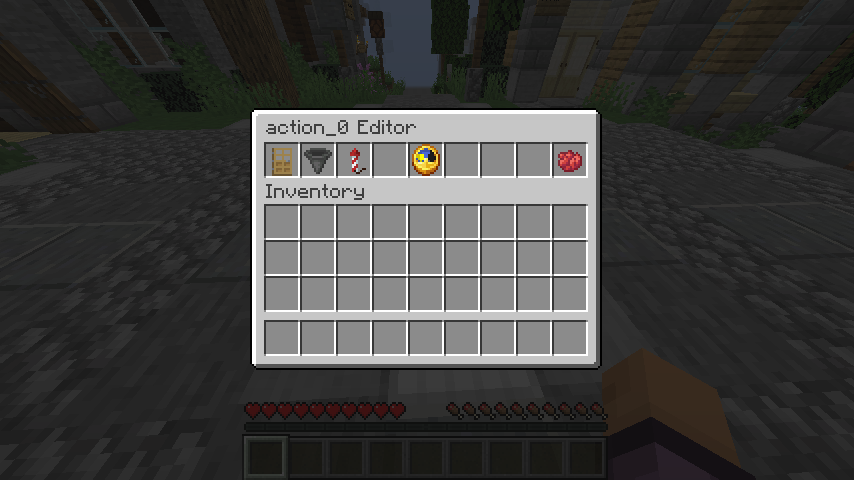
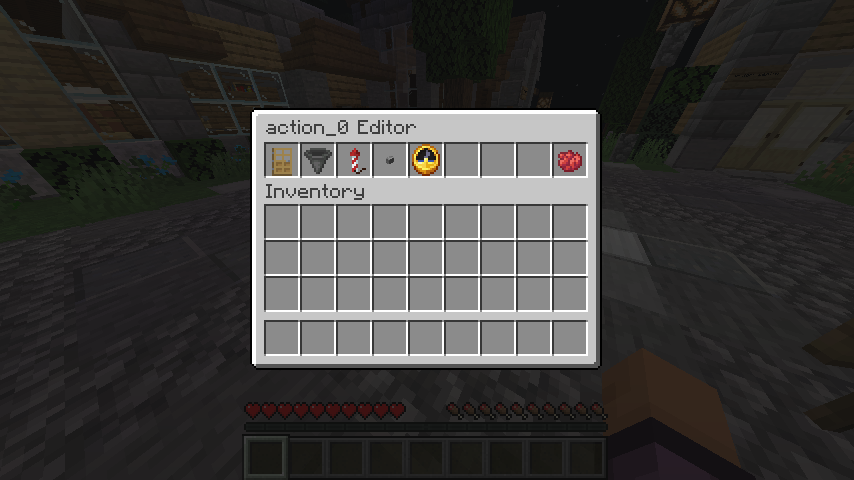
finish adding tutorial part 6

diff --git a/branding/docs/tutorial/README.md b/branding/docs/tutorial/README.md
@@ -85,7 +85,6 @@ This tutorial is structured to start at the most easy and common, to the most ni
 7. Go **'Back'** and press **'Save'**
     - Your NPC won't show in the world until it is told to be
     - You can't interact with NPC blocks like normal blocks, if your NPC is a door you won't be able to open and close it
-    - If you destroy te NPC the quest will toggle off
 
 <br>
 
@@ -109,16 +108,69 @@ This tutorial is structured to start at the most easy and common, to the most ni
 6. Press the new **'action_0'** button, it will show an action editor menu
     - The hopper is for setting the actions that come after this one (will be talked about later)
     - The firework is for changing the action type
+    - The button is for configuring the action
     - The clock is for setting conditions for the action to continue (will be talked about later)
     - The red dye is to delete the action
 
-<img alt="A new screen appears showing a back button, a button to set next actions, a button to change the action type, a space, a button to edit the conditions and a delete button" src="../../assets/docs/action-editor-menu.png" width="450"/>
+<img alt="A new screen appears showing a back button, a button to set next actions, a button to change the action type, a button to change action settings, a button to edit the conditions and a delete button" src="../../assets/docs/action-editor-menu.png" width="450"/>
+
+7. Press the **'Edit action options'** button
+
+<img alt="The 'Edit action options' button is the stone button in the 4th slot" src="../../assets/docs/edit-actions-button.png" width="450"/>
+
+8. Here, you can set the NPC that will idle when the action starts.
+    - The action is called 'None' because it very much does nothing, you can look in the 'Change action type' to see the other options. This action also halts continuation as there is no way to 'complete' nothing.
+9. Press the **'Set the NPC'** configuration option. 
+
+<img alt="The 'Edit action options' button is the stone button in the 4th slot" src="../../assets/docs/set-the-npc-option.png" width="450"/>
+
+10. It will show you your list of NPCs, there you just pick the NPC you want to have show up in the world.
+
+<img alt="The 'NPC Selector' menu" src="../../assets/docs/npc-selector-npc.png" width="450"/>
+
+11. <u>**Now we just need to set this action to start when the quest starts!**</u>
+12. Press **'Back'** a few times to get back to the main **'Edit Quest'** screen
+13. Press **'Set start points'**
+
+<img alt="The 'Set start points' button is the piston in the 6th slot" src="../../assets/docs/set-start-points-button.png" width="450"/>
+
+14. Select the action we just created
+15. Go **'Back'**, and press **'Save'** to save the changes you've made to the quest 
+16. The NPC you created and selected should show up where you set it!
+    - The NPC will have no interaction/functionality. This is because the action it's assigned to is just **'None'**, which is an action type that has no behaviour 😸. See the next part if you're ready to add behaviour!
+
+<br>
 
 ## 6. Making the NPC say something 🌟
 > Bring your NPC to life, here's how:
 
-## 7. Go from one action to the next action!
-> Two dialogues in a row!? here's how:
+###### 🔔 A stage is just a big list of actions. Like a step in your quest. For example: a stage could be a conversation with the NPC with multiple 'Speak' actions.
 
-## 8. Conditions for the action to continue, like a certain time of day!
-> Specify requirements your action needs to continue, here's how:
+1. Open the quest editor
+2. Navigate to the ``stage_0.action_0`` we made
+3. In the action editor, press the **'Change action type'** button
+    - The firework inside this menu shows the currently selected action type
+
+<img alt="The 'Available Action Types' menu shows a back button, a firework button for the currently selected item (the 'None' action type), and a oak sign button for the 'Speak' action type" src="../../assets/docs/available-action-types-menu.png" width="450"/>
+
+4. Press the **'Speak'** action type button, to change the action type from **'None'** to **'Speak'**
+5. Go **'Back'**
+6. Now when we go into **'Edit action options'** we will see suitable options to configure!
+7. Make sure you set both the **'Set the NPC'** and **'Set the Dialogue'**
+    - ⚠ It won't let you exit or save if these aren't completed as they are required to avoid your quest breaking!
+8. Go **'Back'**
+    - If it doesn't let you, the chatbox should show a message of what you need to do. Don't exit the menu though, unless you're okay with losing your progress.
+
+    <img alt="Example showing an error showing up behind the menu in the chat box, it says 'NPC is missing, try choosing an NPC in the action options.'" src="../../assets/docs/action-config-error.png" width="450"/>
+
+9. **'Save'** the quest
+    - If it's not working, remember to set it as the starting point action. *If you're still having troubles feel free to ask for help in the [Discord server](https://discord.gg/EvWVSn9URf)!*
+10. Yay! Now the NPC should sparkle and right click should show your dialogue!
+    - When I interact with it, it disappears?! Don't stress ^_^ this is intended, every action continues on when it's finished. If you'd like to avoid that forever, you can set one of the actions **'Next Actions'** as itself for a infinite loop! (if you're unsure how, read the next part for help!)
+
+<br>
+
+## 💙 Let's make more quests together!
+You have the basics now! You should be able to do just about anything this plugin offers now.
+
+If you have any questions, feel free to ask in the [Discord server](https://discord.gg/EvWVSn9URf)!
